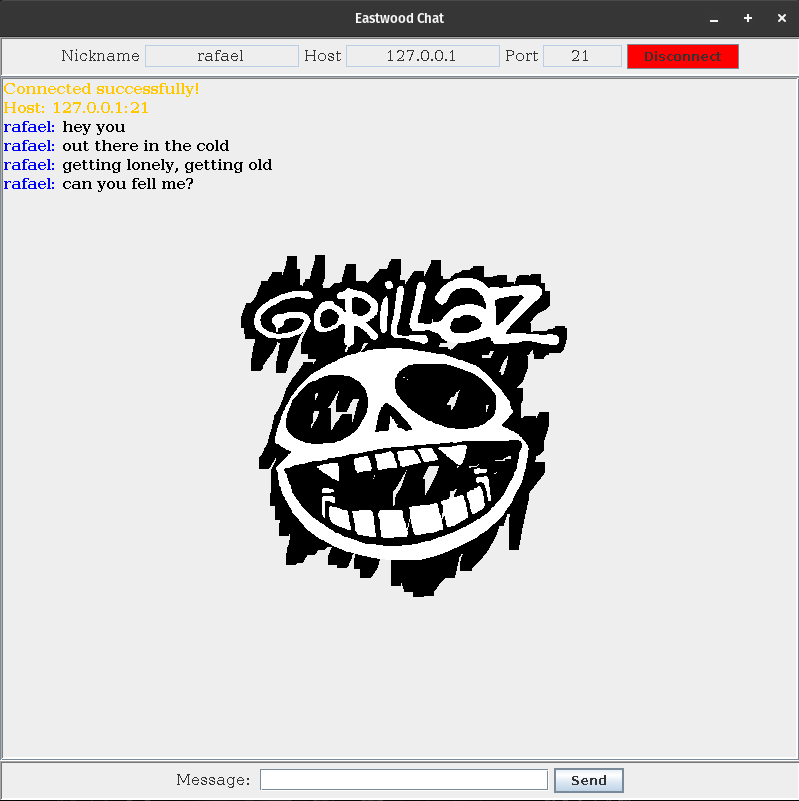
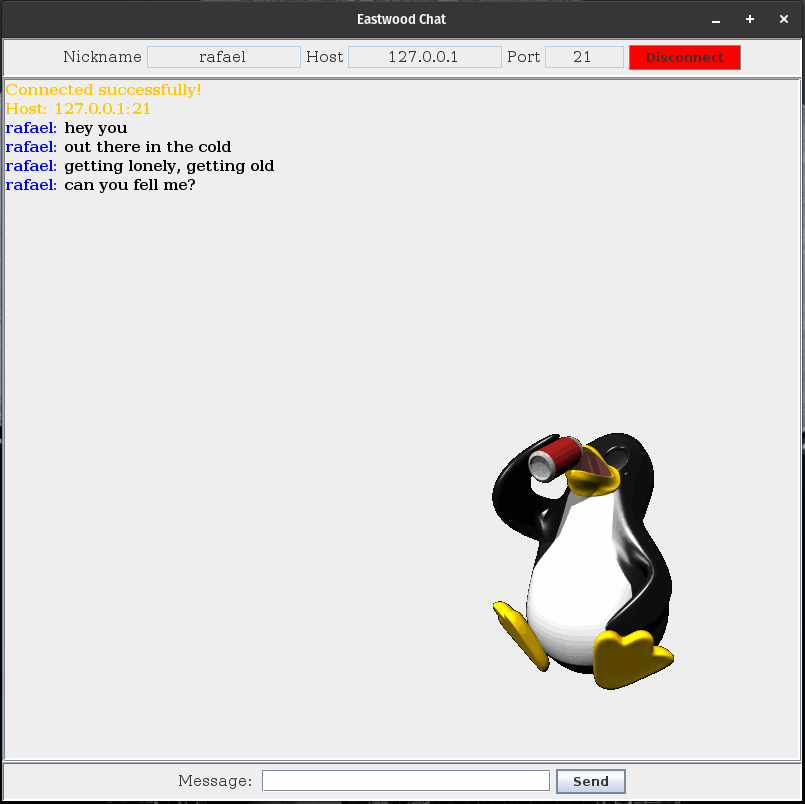
fix scroll and background position

diff --git a/src/chat/gui/ChatPanel.java b/src/chat/gui/ChatPanel.java
@@ -9,7 +9,6 @@ import javax.swing.text.Style;
 import javax.swing.text.StyleConstants;
 import javax.swing.text.StyledDocument;
 import java.awt.*;
-import java.awt.image.BufferedImage;
 import java.net.URL;
 
 public class ChatPanel extends JTextPane {
@@ -24,6 +23,8 @@ public class ChatPanel extends JTextPane {
     private static final Color INTERNAL_MESSAGE_COLOR = Color.black;
 
     private Image backgroundImage;
+    private int backgroundWidth;
+    private int backgroundHeight;
 
     private void configBorders() {
         this.setBorder(BorderFactory.createLoweredBevelBorder());
@@ -39,6 +40,10 @@ public class ChatPanel extends JTextPane {
         } catch (BadLocationException e) {
             e.printStackTrace();
         }
+
+        //Desce o scroll
+        var sp = EastwoodChat.chatWindow.getSp();
+        sp.getVerticalScrollBar().setValue(sp.getVerticalScrollBar().getMaximum());
     }
 
     public void addErrorMessage(String message) {
@@ -51,6 +56,10 @@ public class ChatPanel extends JTextPane {
         } catch (BadLocationException e) {
             e.printStackTrace();
         }
+
+        //Desce o scroll
+        var sp = EastwoodChat.chatWindow.getSp();
+        sp.getVerticalScrollBar().setValue(sp.getVerticalScrollBar().getMaximum());
     }
 
     public void clearChat() {
@@ -89,6 +98,10 @@ public class ChatPanel extends JTextPane {
         } catch (BadLocationException e) {
             e.printStackTrace();
         }
+
+        //Desce o scroll
+        var sp = EastwoodChat.chatWindow.getSp();
+        sp.getVerticalScrollBar().setValue(sp.getVerticalScrollBar().getMaximum());
     }
 
     private void configBackgroundImage(){
@@ -97,6 +110,8 @@ public class ChatPanel extends JTextPane {
             URL image = this.getClass().getResource("/chat/assets/image.gif");
             if(image != null){
                 backgroundImage = new ImageIcon(image).getImage();
+                this.backgroundWidth = backgroundImage.getWidth(null);
+                this.backgroundHeight = backgroundImage.getHeight(null);
             }
         }catch (Exception e){
             System.out.printf("nao funfou");
@@ -105,16 +120,17 @@ public class ChatPanel extends JTextPane {
 
     @Override
     protected void paintComponent(Graphics g) {
+        super.paintComponent(g);
 
         //draw background image
         Graphics2D g2d = (Graphics2D) g;
-        int x = (this.getWidth() - backgroundImage.getWidth(null)) / 2;
-        int y = (this.getHeight() - backgroundImage.getHeight(null)) / 2;
+        int x = (this.getWidth() - (int) (backgroundWidth * 1.2));
+        int y = (this.getHeight() - (int) (backgroundHeight * 1.2));
+
+//        System.out.println("WIDTH: "+this.getWidth()+ " | HEIGHT: " + this.getHeight());
+//        System.out.println("IMAGE_WIDTH: " + backgroundImage.getWidth(null) + " | IMAGE_HEIGHT: " + backgroundImage.getHeight(null));
         g2d.drawImage(backgroundImage, x, y, null);
 
-
-
-        super.paintComponent(g);
 
     }
 

diff --git a/src/chat/gui/ChatWindow.java b/src/chat/gui/ChatWindow.java
@@ -7,6 +7,8 @@ import chat.client.ClientSocket;
 import javax.imageio.ImageIO;
 import javax.swing.*;
 import java.awt.*;
+import java.awt.event.AdjustmentEvent;
+import java.awt.event.AdjustmentListener;
 import java.io.File;
 import java.net.URL;
 
@@ -19,39 +21,40 @@ public class ChatWindow extends JFrame implements UserInterface {
     private ConnectionPanel connectionPanel;
     private ChatPanel chatPanel;
     private SendMessagePanel sendMessagePanel;
+    private JScrollPane sp;
 
-    private void configPanelsAndLayout(){
+    private void configPanelsAndLayout() {
         //Connection Panel
         connectionPanel = new ConnectionPanel();
-        this.add(connectionPanel,  BorderLayout.PAGE_START);
+        this.add(connectionPanel, BorderLayout.PAGE_START);
 
         //Chat Panel
         chatPanel = new ChatPanel();
         this.add(chatPanel, BorderLayout.CENTER);
 
         //Add scroll for chat
-        JScrollPane sp = new JScrollPane(chatPanel);
+        sp = new JScrollPane(chatPanel);
         this.getContentPane().add(sp);
 
         //Send Message Panel
-        sendMessagePanel= new SendMessagePanel();
+        sendMessagePanel = new SendMessagePanel();
         this.add(sendMessagePanel, BorderLayout.PAGE_END);
     }
 
-    private void configIcon(){
+    private void configIcon() {
         //Config icon
-        try{
+        try {
             URL icon = this.getClass().getResource("/chat/assets/icon.png");
-            if(icon != null){
+            if (icon != null) {
                 setIconImage(new ImageIcon(icon).getImage());
             }
-        }catch (Exception e){
+        } catch (Exception e) {
             System.out.printf("nao funfou");
         }
     }
 
 
-    public ChatWindow(){
+    public ChatWindow() {
         //Set the window settings
         this.setSize(SCREEN_WIDTH, SCREEN_HEIGHT);
         this.setTitle(title);
@@ -107,5 +110,7 @@ public class ChatWindow extends JFrame implements UserInterface {
         return sendMessagePanel;
     }
 
-
+    public JScrollPane getSp() {
+        return sp;
+    }
 }
